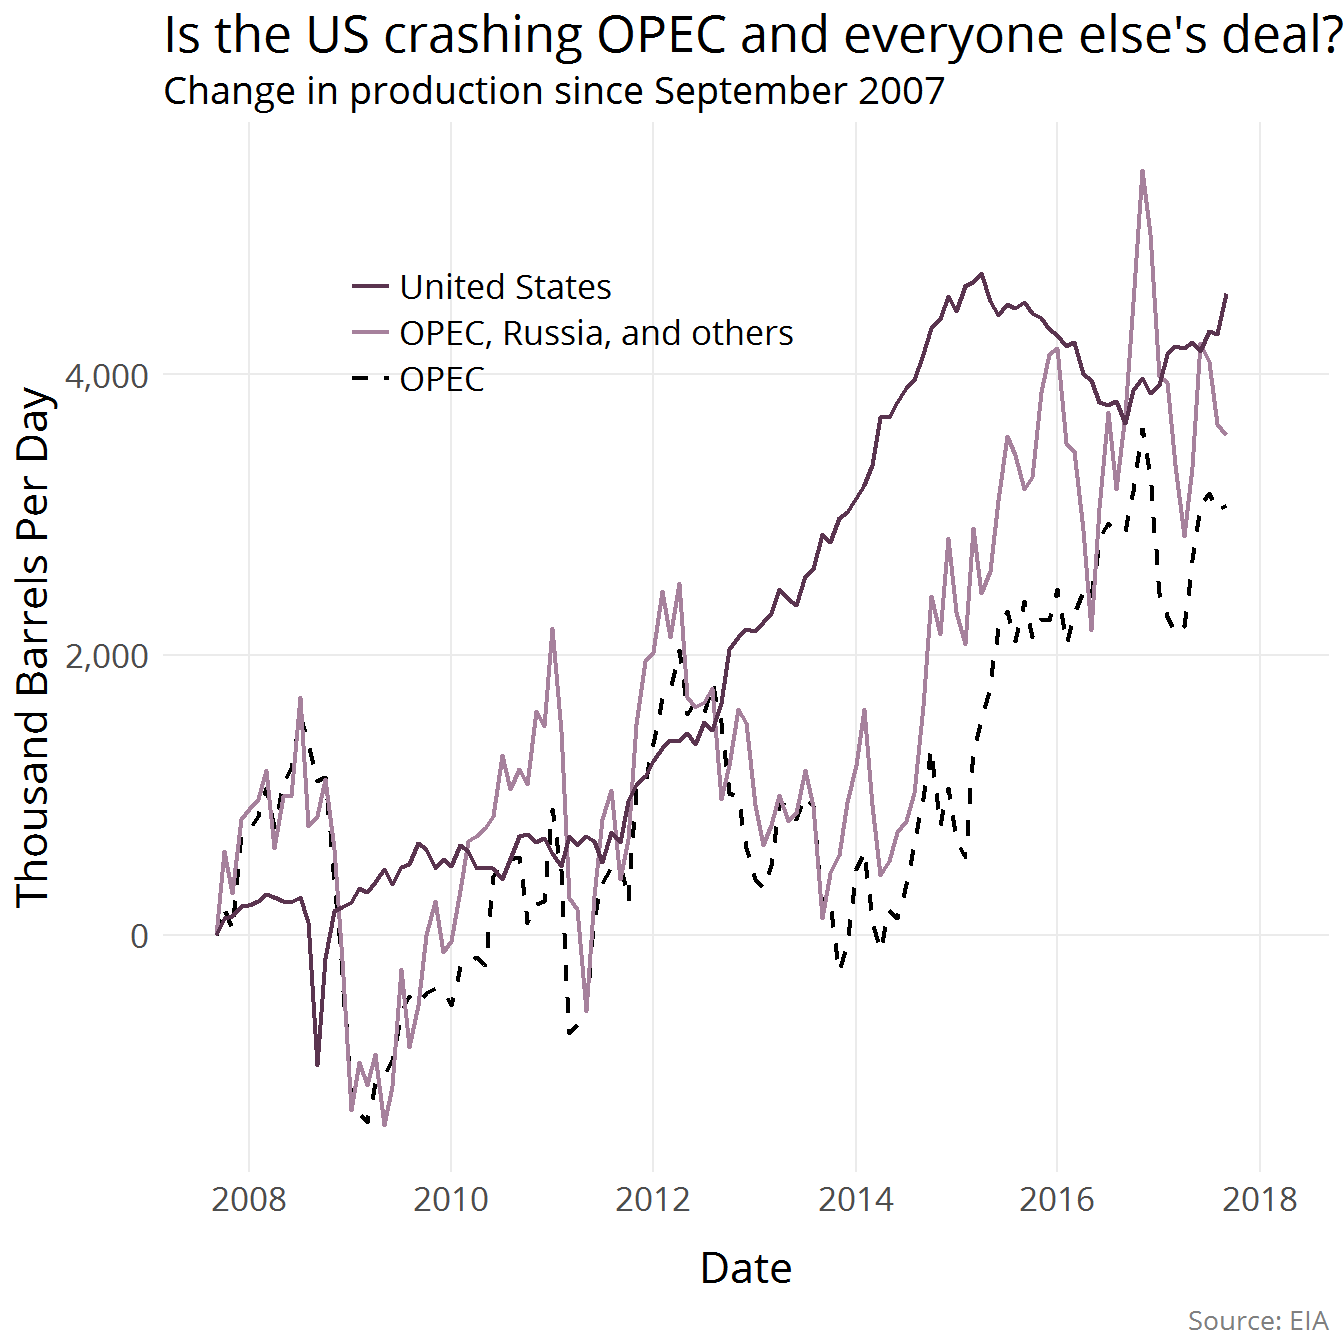
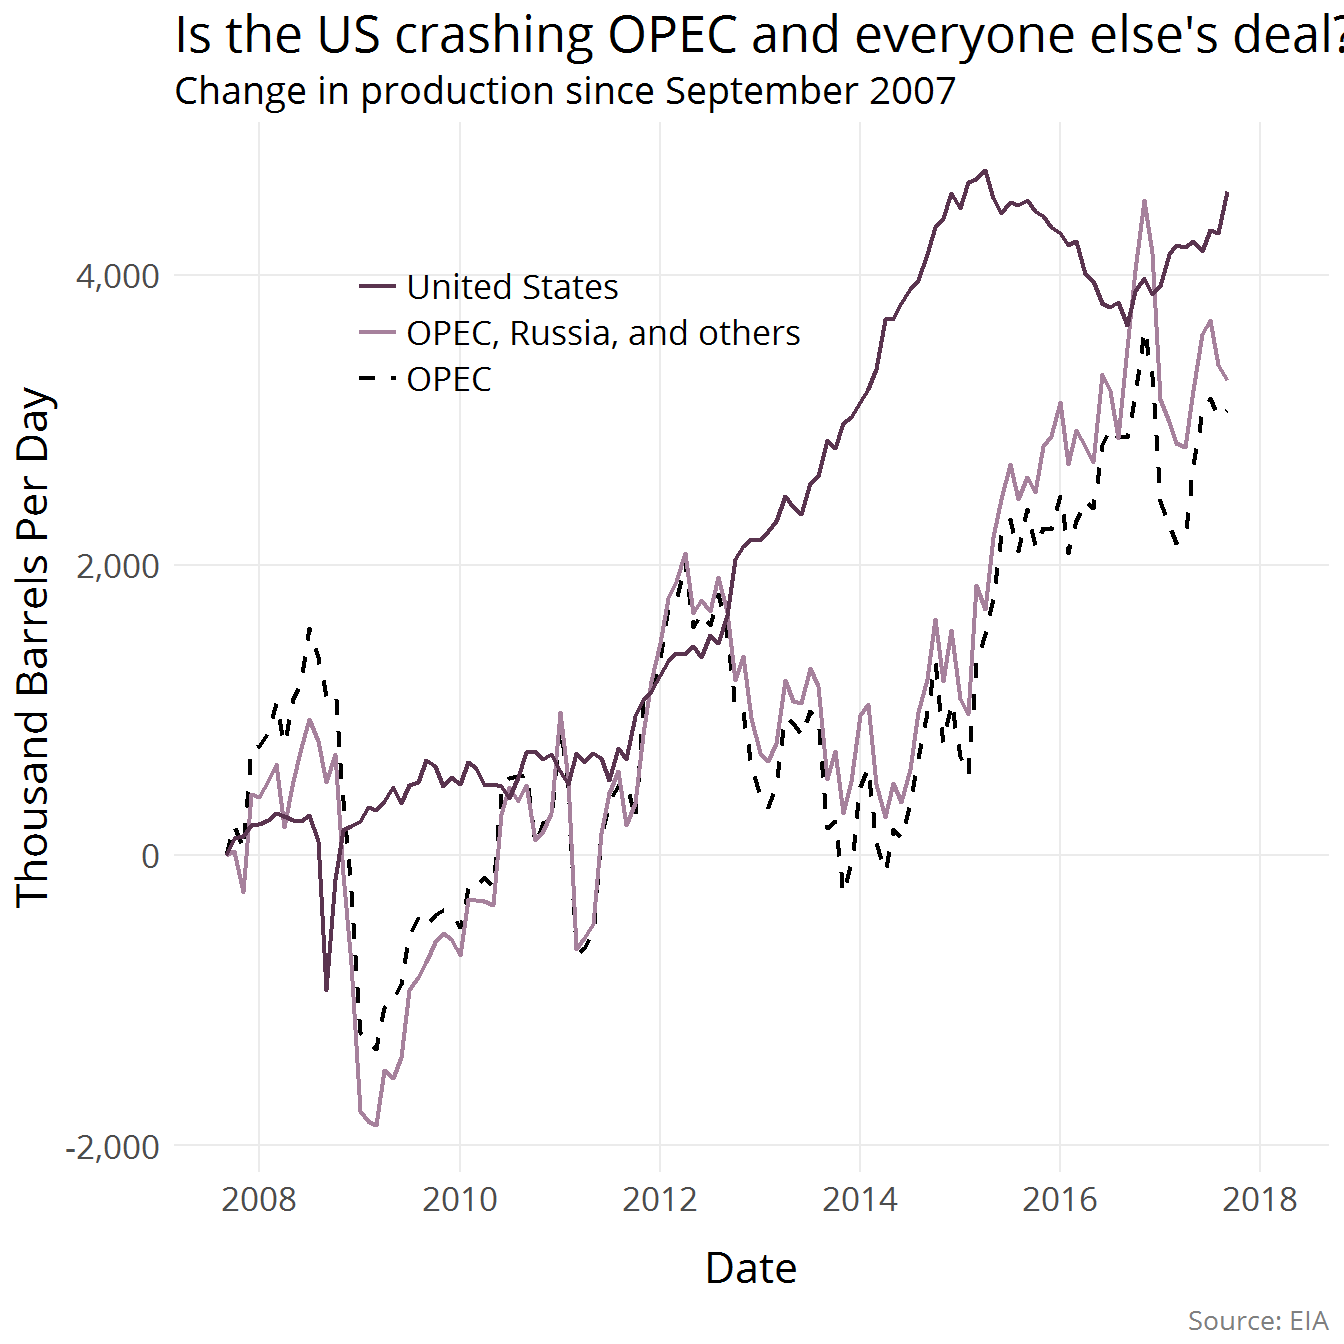
Correct data on Sep 07 - Sep 17 OPEC production

diff --git a/blog/is_the_united_states_crashing_opecs_deal/index.html b/blog/is_the_united_states_crashing_opecs_deal/index.html
@@ -117,7 +117,7 @@
 
 
 <meta itemprop="dateModified" content="2018-01-08T00:00:00&#43;00:00" />
-<meta itemprop="wordCount" content="247">
+<meta itemprop="wordCount" content="288">
 
 
 
@@ -171,13 +171,14 @@
 <p>Companies within United States may have the most to gain, and they may have the most proven swing producer record, outside of OPEC nations.</p>
 <p>According to the most recent data from the US Energy Information Administration (EIA), up to September 2017, the US added nearly 4.6 million barrels per day (bpd) of production from September 2007 to September 2017.</p>
 <p><img src="../../blog/is_the_united_states_crashing_opecs_deal_files/figure-html/display_change_since_recession-1.png" width="672" /></p>
-<p>The addition by the US since September 2007 is 1 million bpd more than the change in production among OPEC, Russia, Mexico, Kazakhstan, and Oman - combined.</p>
+<p>The addition by the US since September 2007 is 1.3 million bpd more than the change in production among OPEC, Russia, Mexico, Kazakhstan, and Oman - combined.</p>
 <!-- In June 2014, Saudi Arabia announced it would increase its production by over 1 million barrels per day. Four months later, the price of oil had halved. Four months after that, it nearly halved again. -->
 <p>Since the OPEC production cut was first announced in September 2016, the US has added 928,000 bpd while OPEC and other countries have lost 226,000 bpd - a difference of nearly 1.2 million barrels between the two.</p>
 <p><img src="../../blog/is_the_united_states_crashing_opecs_deal_files/figure-html/display_post_cut_overview-1.png" width="672" /></p>
 <p>Whether US production will continue to climb rests solely on whether OPEC and other nations hold to their agreed-upon output levels - providing US producers room to increase their own production.</p>
 <p>Barring any deviation from their agreed upon production cuts, OPEC and other nations will watch as US production fills in the void during 2018.</p>
 <p><img src="../../blog/is_the_united_states_crashing_opecs_deal_files/figure-html/display_gr_grob-1.png" width="672" /></p>
+<p><em>EDITED on 2018-01-09 to correct charts and in-line data about OPEC and other countries production from September 2007 to September 2017. The earlier reported 1 million bpd gap between the US and those countries is actually larger, at 1.3 million bpd.</em></p>
 
 
 </div>
@@ -196,7 +197,7 @@
   
     and tagged <a href="../../tags/oil/">oil</a>, <a href="../../tags/oil-and-gas/">oil and gas</a>, <a href="../../tags/opec/">opec</a>, <a href="../../tags/r/">r</a> and <a href="../../tags/united-states/">united states</a>
   
-  using <span itemprop="wordCount">247</span> words.
+  using <span itemprop="wordCount">288</span> words.
 </p>
 
         

diff --git a/blog/texasprimary2016_update_with_zscores/index.html b/blog/texasprimary2016_update_with_zscores/index.html
@@ -293,8 +293,6 @@ R &lt;- (R[&quot;Cruz&quot;] + R[&quot;Trump&quot;]) / R[&quot;TotalVotesR&quot;
       
         <li><a href="../../blog/is_the_united_states_crashing_opecs_deal/">Is The United States Crashing OPEC&#39;s Deal?</a> &ndash; 2 minutes
       
-        <li><a href="../../blog/opec/">Is The United States Crashing OPEC&#39;s Deal?</a> &ndash; 2 minutes
-      
         <li><a href="../../blog/simplify_your_map_to_reduce_drawing_time/">Simplify Your Map To Reduce Drawing Time</a> &ndash; 1 minutes
       
         <li><a href="../../blog/us_oil_imports_a_tale_of_one_country/">US Oil Imports: A Tale of One Country</a> &ndash; 3 minutes
@@ -304,6 +302,8 @@ R &lt;- (R[&quot;Cruz&quot;] + R[&quot;Trump&quot;]) / R[&quot;TotalVotesR&quot;
         <li><a href="../../blog/reimagining_a_data_viz_good_schools_affordable_homes_nyt/">Re-imagining a Data Visualization: Good Schools, Affordable Homes (New York Times)</a> &ndash; 3 minutes
       
         <li><a href="../../blog/exploring_us_refinery_imports/">U.S. Refinery Imports From Saudi Arabia</a> &ndash; 2 minutes
+      
+        <li><a href="../../blog/using_ggraph_to_visualize_north_dakota_oil_and_gas_data/">Using ggraph to Visualize North Dakota Oil and Gas Data</a> &ndash; 3 minutes
       
     </ul>
   </aside>

diff --git a/blog/using_stackoverflow_data_to_find_the_top_25_r_users_to_follow/index.html b/blog/using_stackoverflow_data_to_find_the_top_25_r_users_to_follow/index.html
@@ -343,8 +343,6 @@ knitr::kable(top25, align = c(&quot;l&quot;, &quot;l&quot;, &quot;r&quot;, &quot
       
         <li><a href="../../blog/is_the_united_states_crashing_opecs_deal/">Is The United States Crashing OPEC&#39;s Deal?</a> &ndash; 2 minutes
       
-        <li><a href="../../blog/opec/">Is The United States Crashing OPEC&#39;s Deal?</a> &ndash; 2 minutes
-      
         <li><a href="../../blog/simplify_your_map_to_reduce_drawing_time/">Simplify Your Map To Reduce Drawing Time</a> &ndash; 1 minutes
       
         <li><a href="../../blog/us_oil_imports_a_tale_of_one_country/">US Oil Imports: A Tale of One Country</a> &ndash; 3 minutes
@@ -354,6 +352,8 @@ knitr::kable(top25, align = c(&quot;l&quot;, &quot;l&quot;, &quot;r&quot;, &quot
         <li><a href="../../blog/reimagining_a_data_viz_good_schools_affordable_homes_nyt/">Re-imagining a Data Visualization: Good Schools, Affordable Homes (New York Times)</a> &ndash; 3 minutes
       
         <li><a href="../../blog/exploring_us_refinery_imports/">U.S. Refinery Imports From Saudi Arabia</a> &ndash; 2 minutes
+      
+        <li><a href="../../blog/using_ggraph_to_visualize_north_dakota_oil_and_gas_data/">Using ggraph to Visualize North Dakota Oil and Gas Data</a> &ndash; 3 minutes
       
     </ul>
   </aside>

diff --git a/blog/ggplot2_enso_and_ltta/index.html b/blog/ggplot2_enso_and_ltta/index.html
@@ -522,8 +522,6 @@ box$SSTA.lag4.LTTA_binw.5 + labs(title = &quot;Boxplot: SSTA.lag4 ~ LTTA&quot;,
       
         <li><a href="../../blog/is_the_united_states_crashing_opecs_deal/">Is The United States Crashing OPEC&#39;s Deal?</a> &ndash; 2 minutes
       
-        <li><a href="../../blog/opec/">Is The United States Crashing OPEC&#39;s Deal?</a> &ndash; 2 minutes
-      
         <li><a href="../../blog/simplify_your_map_to_reduce_drawing_time/">Simplify Your Map To Reduce Drawing Time</a> &ndash; 1 minutes
       
         <li><a href="../../blog/us_oil_imports_a_tale_of_one_country/">US Oil Imports: A Tale of One Country</a> &ndash; 3 minutes
@@ -533,6 +531,8 @@ box$SSTA.lag4.LTTA_binw.5 + labs(title = &quot;Boxplot: SSTA.lag4 ~ LTTA&quot;,
         <li><a href="../../blog/reimagining_a_data_viz_good_schools_affordable_homes_nyt/">Re-imagining a Data Visualization: Good Schools, Affordable Homes (New York Times)</a> &ndash; 3 minutes
       
         <li><a href="../../blog/exploring_us_refinery_imports/">U.S. Refinery Imports From Saudi Arabia</a> &ndash; 2 minutes
+      
+        <li><a href="../../blog/using_ggraph_to_visualize_north_dakota_oil_and_gas_data/">Using ggraph to Visualize North Dakota Oil and Gas Data</a> &ndash; 3 minutes
       
     </ul>
   </aside>

diff --git a/blog/ggloop_intro/index.html b/blog/ggloop_intro/index.html
@@ -210,8 +210,6 @@ g$color.gear$`x.mpg/cyl_y.disp/hp`  ## view one of the plots</code></pre>
       
         <li><a href="../../blog/is_the_united_states_crashing_opecs_deal/">Is The United States Crashing OPEC&#39;s Deal?</a> &ndash; 2 minutes
       
-        <li><a href="../../blog/opec/">Is The United States Crashing OPEC&#39;s Deal?</a> &ndash; 2 minutes
-      
         <li><a href="../../blog/simplify_your_map_to_reduce_drawing_time/">Simplify Your Map To Reduce Drawing Time</a> &ndash; 1 minutes
       
         <li><a href="../../blog/us_oil_imports_a_tale_of_one_country/">US Oil Imports: A Tale of One Country</a> &ndash; 3 minutes
@@ -221,6 +219,8 @@ g$color.gear$`x.mpg/cyl_y.disp/hp`  ## view one of the plots</code></pre>
         <li><a href="../../blog/reimagining_a_data_viz_good_schools_affordable_homes_nyt/">Re-imagining a Data Visualization: Good Schools, Affordable Homes (New York Times)</a> &ndash; 3 minutes
       
         <li><a href="../../blog/exploring_us_refinery_imports/">U.S. Refinery Imports From Saudi Arabia</a> &ndash; 2 minutes
+      
+        <li><a href="../../blog/using_ggraph_to_visualize_north_dakota_oil_and_gas_data/">Using ggraph to Visualize North Dakota Oil and Gas Data</a> &ndash; 3 minutes
       
     </ul>
   </aside>

diff --git a/blog/texasprimary2016_economic_data_part_1/index.html b/blog/texasprimary2016_economic_data_part_1/index.html
@@ -339,8 +339,6 @@ FRED &lt;- .FRED %&gt;% select(-BachDegree, -HSDegree)</code></pre>
       
         <li><a href="../../blog/is_the_united_states_crashing_opecs_deal/">Is The United States Crashing OPEC&#39;s Deal?</a> &ndash; 2 minutes
       
-        <li><a href="../../blog/opec/">Is The United States Crashing OPEC&#39;s Deal?</a> &ndash; 2 minutes
-      
         <li><a href="../../blog/simplify_your_map_to_reduce_drawing_time/">Simplify Your Map To Reduce Drawing Time</a> &ndash; 1 minutes
       
         <li><a href="../../blog/us_oil_imports_a_tale_of_one_country/">US Oil Imports: A Tale of One Country</a> &ndash; 3 minutes
@@ -350,6 +348,8 @@ FRED &lt;- .FRED %&gt;% select(-BachDegree, -HSDegree)</code></pre>
         <li><a href="../../blog/reimagining_a_data_viz_good_schools_affordable_homes_nyt/">Re-imagining a Data Visualization: Good Schools, Affordable Homes (New York Times)</a> &ndash; 3 minutes
       
         <li><a href="../../blog/exploring_us_refinery_imports/">U.S. Refinery Imports From Saudi Arabia</a> &ndash; 2 minutes
+      
+        <li><a href="../../blog/using_ggraph_to_visualize_north_dakota_oil_and_gas_data/">Using ggraph to Visualize North Dakota Oil and Gas Data</a> &ndash; 3 minutes
       
     </ul>
   </aside>

diff --git a/blog/c++_modify_in_place_operators_in_r/index.html b/blog/c++_modify_in_place_operators_in_r/index.html
@@ -342,8 +342,6 @@ for (i in seq_along(x)) {
       
         <li><a href="../../blog/is_the_united_states_crashing_opecs_deal/">Is The United States Crashing OPEC&#39;s Deal?</a> &ndash; 2 minutes
       
-        <li><a href="../../blog/opec/">Is The United States Crashing OPEC&#39;s Deal?</a> &ndash; 2 minutes
-      
         <li><a href="../../blog/simplify_your_map_to_reduce_drawing_time/">Simplify Your Map To Reduce Drawing Time</a> &ndash; 1 minutes
       
         <li><a href="../../blog/us_oil_imports_a_tale_of_one_country/">US Oil Imports: A Tale of One Country</a> &ndash; 3 minutes
@@ -353,6 +351,8 @@ for (i in seq_along(x)) {
         <li><a href="../../blog/reimagining_a_data_viz_good_schools_affordable_homes_nyt/">Re-imagining a Data Visualization: Good Schools, Affordable Homes (New York Times)</a> &ndash; 3 minutes
       
         <li><a href="../../blog/exploring_us_refinery_imports/">U.S. Refinery Imports From Saudi Arabia</a> &ndash; 2 minutes
+      
+        <li><a href="../../blog/using_ggraph_to_visualize_north_dakota_oil_and_gas_data/">Using ggraph to Visualize North Dakota Oil and Gas Data</a> &ndash; 3 minutes
       
     </ul>
   </aside>

diff --git a/blog/exploring_us_refinery_imports/index.html b/blog/exploring_us_refinery_imports/index.html
@@ -196,8 +196,6 @@
       
         <li><a href="../../blog/is_the_united_states_crashing_opecs_deal/">Is The United States Crashing OPEC&#39;s Deal?</a> &ndash; 2 minutes
       
-        <li><a href="../../blog/opec/">Is The United States Crashing OPEC&#39;s Deal?</a> &ndash; 2 minutes
-      
         <li><a href="../../blog/simplify_your_map_to_reduce_drawing_time/">Simplify Your Map To Reduce Drawing Time</a> &ndash; 1 minutes
       
         <li><a href="../../blog/us_oil_imports_a_tale_of_one_country/">US Oil Imports: A Tale of One Country</a> &ndash; 3 minutes
@@ -207,6 +205,8 @@
         <li><a href="../../blog/reimagining_a_data_viz_good_schools_affordable_homes_nyt/">Re-imagining a Data Visualization: Good Schools, Affordable Homes (New York Times)</a> &ndash; 3 minutes
       
         <li><a href="../../blog/using_ggraph_to_visualize_north_dakota_oil_and_gas_data/">Using ggraph to Visualize North Dakota Oil and Gas Data</a> &ndash; 3 minutes
+      
+        <li><a href="../../blog/texasprimary2016_economic_data_part_1/">TexasPrimary2016: Economic Data - Part 1</a> &ndash; 4 minutes
       
     </ul>
   </aside>

diff --git a/blog/texasprimary2016_update/index.html b/blog/texasprimary2016_update/index.html
@@ -181,8 +181,6 @@
       
         <li><a href="../../blog/is_the_united_states_crashing_opecs_deal/">Is The United States Crashing OPEC&#39;s Deal?</a> &ndash; 2 minutes
       
-        <li><a href="../../blog/opec/">Is The United States Crashing OPEC&#39;s Deal?</a> &ndash; 2 minutes
-      
         <li><a href="../../blog/simplify_your_map_to_reduce_drawing_time/">Simplify Your Map To Reduce Drawing Time</a> &ndash; 1 minutes
       
         <li><a href="../../blog/us_oil_imports_a_tale_of_one_country/">US Oil Imports: A Tale of One Country</a> &ndash; 3 minutes
@@ -192,6 +190,8 @@
         <li><a href="../../blog/reimagining_a_data_viz_good_schools_affordable_homes_nyt/">Re-imagining a Data Visualization: Good Schools, Affordable Homes (New York Times)</a> &ndash; 3 minutes
       
         <li><a href="../../blog/exploring_us_refinery_imports/">U.S. Refinery Imports From Saudi Arabia</a> &ndash; 2 minutes
+      
+        <li><a href="../../blog/using_ggraph_to_visualize_north_dakota_oil_and_gas_data/">Using ggraph to Visualize North Dakota Oil and Gas Data</a> &ndash; 3 minutes
       
     </ul>
   </aside>

diff --git a/blog/simplify_your_map_to_reduce_drawing_time/index.html b/blog/simplify_your_map_to_reduce_drawing_time/index.html
@@ -217,8 +217,6 @@ microbenchmark(
       
         <li><a href="../../blog/is_the_united_states_crashing_opecs_deal/">Is The United States Crashing OPEC&#39;s Deal?</a> &ndash; 2 minutes
       
-        <li><a href="../../blog/opec/">Is The United States Crashing OPEC&#39;s Deal?</a> &ndash; 2 minutes
-      
         <li><a href="../../blog/us_oil_imports_a_tale_of_one_country/">US Oil Imports: A Tale of One Country</a> &ndash; 3 minutes
       
         <li><a href="../../blog/north_dakota_horizontal_oil_well_production/">North Dakota Horizontal Oil Well Production</a> &ndash; 1 minutes
@@ -228,6 +226,8 @@ microbenchmark(
         <li><a href="../../blog/exploring_us_refinery_imports/">U.S. Refinery Imports From Saudi Arabia</a> &ndash; 2 minutes
       
         <li><a href="../../blog/using_ggraph_to_visualize_north_dakota_oil_and_gas_data/">Using ggraph to Visualize North Dakota Oil and Gas Data</a> &ndash; 3 minutes
+      
+        <li><a href="../../blog/texasprimary2016_economic_data_part_1/">TexasPrimary2016: Economic Data - Part 1</a> &ndash; 4 minutes
       
     </ul>
   </aside>

diff --git a/blog/using_ggraph_to_visualize_north_dakota_oil_and_gas_data/index.html b/blog/using_ggraph_to_visualize_north_dakota_oil_and_gas_data/index.html
@@ -215,8 +215,6 @@
       
         <li><a href="../../blog/is_the_united_states_crashing_opecs_deal/">Is The United States Crashing OPEC&#39;s Deal?</a> &ndash; 2 minutes
       
-        <li><a href="../../blog/opec/">Is The United States Crashing OPEC&#39;s Deal?</a> &ndash; 2 minutes
-      
         <li><a href="../../blog/simplify_your_map_to_reduce_drawing_time/">Simplify Your Map To Reduce Drawing Time</a> &ndash; 1 minutes
       
         <li><a href="../../blog/us_oil_imports_a_tale_of_one_country/">US Oil Imports: A Tale of One Country</a> &ndash; 3 minutes
@@ -226,6 +224,8 @@
         <li><a href="../../blog/reimagining_a_data_viz_good_schools_affordable_homes_nyt/">Re-imagining a Data Visualization: Good Schools, Affordable Homes (New York Times)</a> &ndash; 3 minutes
       
         <li><a href="../../blog/exploring_us_refinery_imports/">U.S. Refinery Imports From Saudi Arabia</a> &ndash; 2 minutes
+      
+        <li><a href="../../blog/texasprimary2016_economic_data_part_1/">TexasPrimary2016: Economic Data - Part 1</a> &ndash; 4 minutes
       
     </ul>
   </aside>

diff --git a/blog/us_oil_imports_a_tale_of_one_country/index.html b/blog/us_oil_imports_a_tale_of_one_country/index.html
@@ -228,8 +228,6 @@
       
         <li><a href="../../blog/is_the_united_states_crashing_opecs_deal/">Is The United States Crashing OPEC&#39;s Deal?</a> &ndash; 2 minutes
       
-        <li><a href="../../blog/opec/">Is The United States Crashing OPEC&#39;s Deal?</a> &ndash; 2 minutes
-      
         <li><a href="../../blog/simplify_your_map_to_reduce_drawing_time/">Simplify Your Map To Reduce Drawing Time</a> &ndash; 1 minutes
       
         <li><a href="../../blog/north_dakota_horizontal_oil_well_production/">North Dakota Horizontal Oil Well Production</a> &ndash; 1 minutes
@@ -239,6 +237,8 @@
         <li><a href="../../blog/exploring_us_refinery_imports/">U.S. Refinery Imports From Saudi Arabia</a> &ndash; 2 minutes
       
         <li><a href="../../blog/using_ggraph_to_visualize_north_dakota_oil_and_gas_data/">Using ggraph to Visualize North Dakota Oil and Gas Data</a> &ndash; 3 minutes
+      
+        <li><a href="../../blog/texasprimary2016_economic_data_part_1/">TexasPrimary2016: Economic Data - Part 1</a> &ndash; 4 minutes
       
     </ul>
   </aside>
